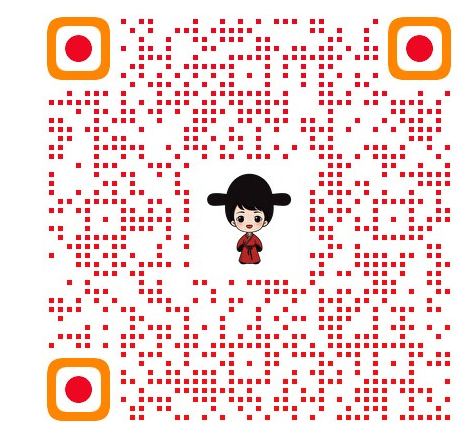
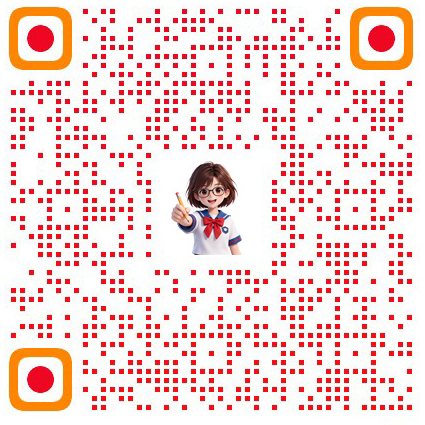
导航页美化：三地址卡片样式+新收款码(裁白边放大居中)

diff --git a/index.html b/index.html
@@ -20,16 +20,23 @@
     h1 span{display:inline-block;animation:wave 1.8s infinite;animation-delay:calc(.1s * var(--i))}
     .slogan{color:#ffd035;font-size:1.05em;font-weight:600;margin-bottom:8px;animation:fadeIn 2s 1s backwards}
     .tip{font-size:1em;margin-bottom:18px;color:#f9a825;animation:fadeIn 2s 1s backwards}
-    .links{margin-bottom:18px;animation:fadeIn .8s .2s backwards}
-    .links p{margin-bottom:8px;font-size:1em}
-    .links a{color:#82aaff;text-decoration:none;transition:color .3s;word-break:break-all}
-    .links a:hover{color:#b3caff}
-    .links small{color:#8a97b8}
+    .links{margin-bottom:20px;animation:fadeIn .8s .2s backwards}
+    .link-item{display:flex;align-items:center;gap:10px;background:rgba(130,170,255,.08);border:1px solid rgba(130,170,255,.18);
+      border-radius:10px;padding:9px 14px;margin-bottom:8px;transition:background .25s,border-color .25s,transform .25s}
+    .link-item:hover{background:rgba(130,170,255,.16);border-color:rgba(130,170,255,.45);transform:translateX(3px)}
+    .link-ico{width:30px;height:30px;border-radius:8px;display:flex;align-items:center;justify-content:center;font-size:1.05em;flex-shrink:0}
+    .link-ico.main{background:linear-gradient(135deg,#2e7d5b,#39c27a)}
+    .link-ico.backup{background:linear-gradient(135deg,#b8860b,#ffd035)}
+    .link-ico.source{background:linear-gradient(135deg,#5b4bb7,#8a2be2)}
+    .link-body{flex:1;text-align:left;min-width:0}
+    .link-tag{display:block;font-size:.78em;color:#9fb0d4;margin-bottom:1px}
+    .link-item a{color:#9dc0ff;text-decoration:none;font-size:.92em;word-break:break-all}
+    .link-item a:hover{color:#ffd035}
     .sponsor{margin-bottom:18px;animation:fadeIn .8s .4s backwards}
     .sponsor .st{font-size:.9em;color:#c9d4ee;margin-bottom:10px}
     .qr-row{display:flex;gap:16px;justify-content:center;flex-wrap:wrap}
     .qr-card{display:flex;flex-direction:column;align-items:center;gap:5px;color:#9fb0d4;font-size:.85em}
-    .qr-card img{width:92px;height:92px;border-radius:8px;background:#fff;display:block}
+    .qr-card img{width:130px;height:130px;background:#fff;display:block;border-radius:6px;padding:4px;box-sizing:border-box}
     .btn{font-size:1.1em;text-decoration:none;background:linear-gradient(45deg,#e94560,#8a2be2);color:#fff;
       padding:12px 25px;border:none;border-radius:50px;transition:all .3s ease;margin:10px;display:inline-block;
       cursor:pointer;box-shadow:0 4px 15px rgba(0,0,0,.2);font-weight:500}
@@ -65,9 +72,9 @@
     <div class="slogan">抓考点 · 划重点 · 稳得分</div>
     <div class="tip">📢 域名可能变动，建议收藏此导航页！</div>
     <div class="links">
-      <p><a href="https://kedaibiao.ccwu.cc/" target="_blank" rel="noopener noreferrer">https://kedaibiao.ccwu.cc/</a> <small>主站</small></p>
-      <p><a href="https://kedaibiao2026.cc.cd/" target="_blank" rel="noopener noreferrer">https://kedaibiao2026.cc.cd/</a> <small>备用</small></p>
-      <p><a href="https://kedaibiao2026.pages.dev/" target="_blank" rel="noopener noreferrer">https://kedaibiao2026.pages.dev/</a> <small>源站</small></p>
+      <div class="link-item"><span class="link-ico main">🌐</span><span class="link-body"><span class="link-tag">主站 · 推荐收藏</span><a href="https://kedaibiao.ccwu.cc/" target="_blank" rel="noopener noreferrer">https://kedaibiao.ccwu.cc/</a></span></div>
+      <div class="link-item"><span class="link-ico backup">🔄</span><span class="link-body"><span class="link-tag">备用站 · 打不开时用</span><a href="https://kedaibiao2026.cc.cd/" target="_blank" rel="noopener noreferrer">https://kedaibiao2026.cc.cd/</a></span></div>
+      <div class="link-item"><span class="link-ico source">⚙</span><span class="link-body"><span class="link-tag">源站 · Cloudflare</span><a href="https://kedaibiao2026.pages.dev/" target="_blank" rel="noopener noreferrer">https://kedaibiao2026.pages.dev/</a></span></div>
     </div>
     <div class="sponsor">
       <div class="st">💛 赞助支持 · 所有资源完全免费</div>
